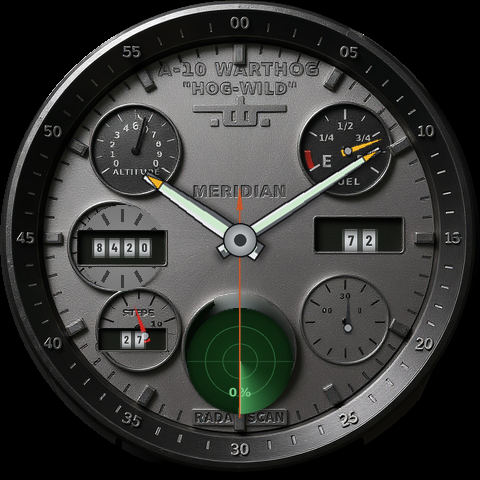
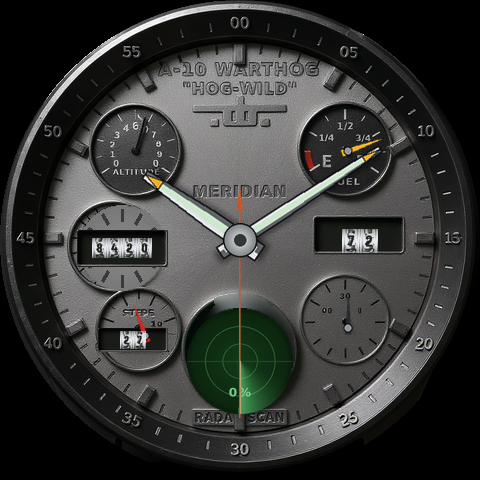
HOG-WILD 1.3.2: forge the lock wheels in Blender — real metal, really lit
Owner call on 1.3.1: "use blender to really make them metal and real."
tools/forge_wheel_font.py models one combination-lock wheel — a drum with
all ten numerals boolean-engraved around its circumference and ink-filled
via a second material on every face below the turned surface, flanked by
knurled rims built from 72 real ridge blocks each — then detents it 36 deg
per digit and renders head-on with orthographic Cycles. Drum falloff,
knurl serration shadows and the neighbour numerals curving away at the
slot edges are all physical now, not painted gradients.

A pure render is illegible at the 16px the face ships at, so the finish
is hybrid: the render supplies the metal; install re-inks the numeral in
exact registration (same typeface, same em maths as the cutter, which was
left unfattened so its recess reads as a shadow ring around the crisp
core) and adds the lit lower lip. Aperture-shade vignette keeps the
neighbours down to the sliver a real lock shows.

Traps found and documented in the tool:
- bmesh reads LOCAL coordinates; the drum's 90-degree lay-down is an
  object transform, so the ink criterion must treat Z as the spindle
  (first attempt painted the end caps and an equator band).
- text outline offset makes the glyph curves self-intersect; the exact
  boolean then flips inside out and skins the whole band, leaving white
  digits on black — stroke weight belongs to the stamp, not the cutter.
[…]

Changed region(s): [[0.1875, 0.5, 0.3438, 0.5625], [0.6875, 0.4688, 0.8125, 0.5312], [0.25, 0.6875, 0.3125, 0.75]]

diff --git a/tools/forge_wheel_font.py b/tools/forge_wheel_font.py
@@ -1,0 +1,351 @@
+#!/usr/bin/env python3
+"""Forge the HOG-WILD `wheel` font in Blender: real metal, really lit.
+
+make_wheel_font.py PAINTS a lock wheel; this MACHINES one. A single drum is
+modelled with all ten numerals engraved around its circumference (boolean
+difference, so the digit is a true recess whose walls catch light) and two
+knurled rims built from real ridge geometry standing proud of the band —
+then the drum is detented 36° at a time and rendered head-on with Cycles.
+Because every digit lives on the same physical drum, the neighbouring
+numerals curve away at the slot edges in correct perspective, the engraving
+self-shadows, and the lathe-turned brushing crosses highlight like metal
+instead of like a gradient.
+
+The BitmapFont alpha-mask constraint is unchanged: the pipeline discards
+glyph colour, so the render ships as relief — luminance becomes alpha, the
+declared colour becomes the steel, and the engraved cut (which Cycles
+renders dark) goes transparent for the aperture's darkness to fill.
+
+One file, two roles: run as plain Python it drives everything (invokes
+Blender headless on itself, then post-processes); run inside Blender (-P)
+it builds and renders.
+
+Determinism: fixed seed, fixed sample count, denoiser on. Cycles output is
+stable for a given Blender build (4.5 LTS here) but not warranted across
+versions — regenerate and eyeball rather than diff.
+
+Usage:
+    python3 tools/forge_wheel_font.py            # report
+    python3 tools/forge_wheel_font.py --write    # forge + install glyphs
+"""
+
+from __future__ import annotations
+
+import math
+import subprocess
+import sys
+from pathlib import Path
+
+REPO = Path(__file__).resolve().parent.parent
+DRAWABLE = REPO / "watchfaces/hogwild/app/src/main/res/drawable"
+FONT_TTF = Path.home() / ".local/share/fonts/BarlowCondensed-Bold.ttf"
+RENDER_DIR = REPO / "build/wheel_forge"
+CELL_W, CELL_H = 34, 46
+RES_W, RES_H = 340, 460          # 10x, downscaled at install
+
+
+# ======================================================================
+# BLENDER SIDE
+# ======================================================================
+def blender_main() -> None:
+    import bpy
+
+    # ---- clean scene ----
+    bpy.ops.wm.read_factory_settings(use_empty=True)
+    scene = bpy.context.scene
+
+    # ---- the drum: axis along X, digit band radius 1.0 ----
+    bpy.ops.mesh.primitive_cylinder_add(
+        vertices=256, radius=1.0, depth=0.66,
+        rotation=(0, math.pi / 2, 0))
+    drum = bpy.context.object
+    drum.name = "drum"
+    bpy.ops.object.shade_smooth()
+
+    # ---- knurled rims: ridge boxes arrayed around each rim ring ----
+    rims = []
+    for side in (-1, 1):
+        x0 = side * (0.33 + 0.085)
+        bpy.ops.mesh.primitive_cylinder_add(
+            vertices=256, radius=1.04, depth=0.17,
+            rotation=(0, math.pi / 2, 0), location=(x0, 0, 0))
+        rim = bpy.context.object
+        rim.name = f"rim{side}"
+        bpy.ops.object.shade_smooth()
+        rims.append(rim)
+        for i in range(72):                      # the knurl, as geometry
+            a = 2 * math.pi * i / 72
+            bpy.ops.mesh.primitive_cube_add(size=1, location=(
+                x0, -math.sin(a) * 1.045, math.cos(a) * 1.045))
+            ridge = bpy.context.object
+            ridge.scale = (0.075, 0.012, 0.022)
+            ridge.rotation_euler = (a, 0, 0)
+            rims.append(ridge)
+
+    # ---- numerals: engraved clean through the band surface ----
+    cutters = []
+    font = bpy.data.fonts.load(str(FONT_TTF))
+    for i, ch in enumerate("0123456789"):
+        a = 2 * math.pi * i / 10
+        bpy.ops.object.text_add()
+        txt = bpy.context.object
+        txt.data.body = ch
+        txt.data.font = font
+        txt.data.size = 0.84
+        # NO outline offset: fattening the text curves makes them
+        # self-intersect, and the exact boolean then flips inside out and
+        # skins the whole band instead of cutting ten numerals. Stroke
+        # weight for the shipping size comes from the ink stamp, not the
+        # cutter.
+        txt.data.extrude = 0.025      # shallow: engraved-and-inked, not milled
+        txt.data.align_x = "CENTER"
+        txt.data.align_y = "CENTER"
+        bpy.ops.object.convert(target="MESH")
+        # face outward at angle phi: text starts facing +Z, upright in
+        # XY; phi=pi/2 puts digit 0 on the -Y face, dead in front of the
+        # camera, and location must use the SAME angle as the facing
+        phi = a + math.pi / 2
+        txt.rotation_euler = (phi, 0, 0)
+        txt.location = (0, -math.sin(phi) * 1.0, math.cos(phi) * 1.0)
+        cutters.append(txt)
+
+    for c in cutters[1:]:
+        c.select_set(True)
+    bpy.context.view_layer.objects.active = cutters[0]
+    cutters[0].select_set(True)
+    bpy.ops.object.join()
+    cutter = bpy.context.object
+
+    mod = drum.modifiers.new("engrave", "BOOLEAN")
+    mod.operation = "DIFFERENCE"
+    mod.object = cutter
+    bpy.context.view_layer.objects.active = drum
+    bpy.ops.object.modifier_apply(modifier="engrave")
+    cutter.hide_render = True
+    cutter.hide_viewport = True
+
+    # ink the engraving: every face of the band that sits below the turned
+    # surface (recess floors and walls) takes the second material slot,
+    # the way a real counter drum is engraved and then paint-filled —
+    # otherwise the flat recess floor faces the camera square-on, catches
+    # the key light, and the digit reads embossed instead of cut
+    # NB mesh data is LOCAL: the 90-degree turn that lays the drum on its
+    # side is an object transform, so in these coordinates the spindle is
+    # the Z axis — axis distance is sqrt(x^2+y^2) and |z| walks the band,
+    # with the end caps excluded by the z bound
+    import bmesh
+    bm = bmesh.new()
+    bm.from_mesh(drum.data)
+    for f in bm.faces:
+        c = f.calc_center_median()
+        if (c.x ** 2 + c.y ** 2) ** 0.5 < 0.9925 and abs(c.z) < 0.329:
+            f.material_index = 1
+    bm.to_mesh(drum.data)
+    bm.free()
+
+    # ---- materials: lathe-brushed steel band, rougher rims ----
+    def steel(name, rough, lathe=False):
+        m = bpy.data.materials.new(name)
+        m.use_nodes = True
+        bsdf = m.node_tree.nodes["Principled BSDF"]
+        bsdf.inputs["Base Color"].default_value = (0.74, 0.75, 0.77, 1)
+        bsdf.inputs["Metallic"].default_value = 1.0
+        bsdf.inputs["Roughness"].default_value = rough
+        bsdf.inputs["Specular IOR Level"].default_value = 0.4
+        if lathe:
+            nt = m.node_tree
+            tex = nt.nodes.new("ShaderNodeTexNoise")
+            tex.inputs["Scale"].default_value = 6.0
+            tex.noise_dimensions = "3D"
+            mapping = nt.nodes.new("ShaderNodeMapping")
+            mapping.inputs["Scale"].default_value = (60.0, 1.0, 1.0)
+            coord = nt.nodes.new("ShaderNodeTexCoord")
+            bump = nt.nodes.new("ShaderNodeBump")
+            bump.inputs["Strength"].default_value = 0.015
+            nt.links.new(coord.outputs["Object"], mapping.inputs["Vector"])
+            nt.links.new(mapping.outputs["Vector"], tex.inputs["Vector"])
+            nt.links.new(tex.outputs["Fac"], bump.inputs["Height"])
+            nt.links.new(bump.outputs["Normal"], bsdf.inputs["Normal"])
+        return m
+
+    band_mat = steel("band", 0.30, lathe=True)
+    rim_mat = steel("rims", 0.45)
+    ink = bpy.data.materials.new("ink")
+    ink.use_nodes = True
+    ink_bsdf = ink.node_tree.nodes["Principled BSDF"]
+    import os
+    _dbg = os.environ.get("FORGE_DEBUG")
+    ink_bsdf.inputs["Base Color"].default_value = (
+        (1.0, 0.0, 0.0, 1) if _dbg else (0.01, 0.01, 0.011, 1))
+    ink_bsdf.inputs["Metallic"].default_value = 0.0
+    ink_bsdf.inputs["Roughness"].default_value = 0.9
+    drum.data.materials.append(band_mat)
+    drum.data.materials.append(ink)
+    for r in rims:
+        r.data.materials.append(rim_mat)
+
+    # ---- parent everything to a spindle for detenting ----
+    bpy.ops.object.empty_add(location=(0, 0, 0))
+    spindle = bpy.context.object
+    spindle.name = "spindle"
+    for ob in [drum] + rims:
+        ob.parent = spindle
+
+    # ---- camera: orthographic, dead-on ----
+    bpy.ops.object.camera_add(location=(0, -4, 0),
+                              rotation=(math.pi / 2, 0, 0))
+    cam = bpy.context.object
+    cam.data.type = "ORTHO"
+    cam.data.sensor_fit = "VERTICAL"
+    cam.data.ortho_scale = 1.28
+    scene.camera = cam
+
+    # ---- studio: key, fill, and a hot equator strip ----
+    def area(loc, rot, size, power):
+        bpy.ops.object.light_add(type="AREA", location=loc, rotation=rot)
+        li = bpy.context.object
+        li.data.size = size
+        li.data.energy = power
+        return li
+
+    area((1.5, -3.0, 3.0), (math.radians(50), 0, math.radians(20)), 4, 115)
+    area((-2.0, -3.0, -1.0), (math.radians(105), 0, math.radians(-30)), 3, 45)
+    area((0, -2.6, 0.55), (math.radians(78), 0, 0), 1.2, 55)
+    world = bpy.data.worlds.new("w")
+    scene.world = world
+    world.use_nodes = True
+    world.node_tree.nodes["Background"].inputs[
+        "Strength"].default_value = 0.03
+
+    # ---- Cycles ----
+    scene.render.engine = "CYCLES"
+    scene.cycles.samples = 96
+    scene.cycles.seed = 7
+    scene.cycles.use_denoising = True
+    prefs = bpy.context.preferences.addons.get("cycles")
+    if prefs:
+        cp = prefs.preferences
+        for backend in ("OPTIX", "CUDA"):
+            try:
+                cp.compute_device_type = backend
+                cp.get_devices()
+                for d in cp.devices:
+                    d.use = True
+                scene.cycles.device = "GPU"
+                break
+            except Exception:
+                continue
+    scene.render.resolution_x = RES_W
+    scene.render.resolution_y = RES_H
+    scene.render.image_settings.file_format = "PNG"
+    scene.render.image_settings.color_mode = "RGB"
+    scene.view_settings.view_transform = "Filmic"
+
+    RENDER_DIR.mkdir(parents=True, exist_ok=True)
+    import os
+    count = 1 if os.environ.get("FORGE_DEBUG") else 10
+    for i in range(count):
+        spindle.rotation_euler = (-2 * math.pi * i / 10, 0, 0)
+        scene.render.filepath = str(RENDER_DIR / f"digit_{i}.png")
+        bpy.ops.render.render(write_still=True)
+        print(f"forged digit {i}")
+
+
+# ======================================================================
+# DRIVER SIDE
+# ======================================================================
+def digit_mask(ch: str) -> "Image":
+    """The numeral, drawn at 4x in exact registration with the render.
+
+    Blender centres the glyph bbox on the drum's front meridian; this
+    centres the same glyph's bbox on the cell. The em size falls out of the
+    camera maths — text_size * (CELL_H / ortho_scale) px per em — so the
+    stamp lands on the engraving without measured constants. The engraving
+    was cut with a fattened outline (+0.012 em per side), deliberately: the
+    render's dark recess pokes out around this crisp core as a shadow ring,
+    which is what sells the depth after the ink goes in.
+    """
+    from PIL import Image, ImageDraw, ImageFont
+    ss = 4
+    em = round(ss * 0.84 * (CELL_H / 1.28))
+    fnt = ImageFont.truetype(str(FONT_TTF), em)
+    m = Image.new("L", (CELL_W * ss, CELL_H * ss), 0)
+    d = ImageDraw.Draw(m)
+    bbox = d.textbbox((0, 0), ch, font=fnt)
+    d.text((CELL_W * ss / 2 - (bbox[0] + bbox[2]) / 2,
+            CELL_H * ss / 2 - (bbox[1] + bbox[3]) / 2), ch,
+           font=fnt, fill=255)
+    return m.resize((CELL_W, CELL_H), Image.LANCZOS)
+
+
+def install_glyphs(write: bool) -> None:
+    """Hybrid finish: Blender makes the metal, the stamp makes it legible.
+
+    A pure render dies at 16px — denoise softness, neighbour slivers and
+    specular noise eat the numeral. So the render supplies everything that
+    should be physical (knurl, drum falloff, engraving shadow) and the ink
+    is re-applied here at full contrast, in registration, with a lit lower
+    lip — engraved-and-paint-filled, finished for the size it ships at.
+    """
+    import math as _m
+    from PIL import Image, ImageChops, ImageFilter
+    for i in range(10):
+        src = RENDER_DIR / f"digit_{i}.png"
+        img = Image.open(src).convert("L").resize(
+            (CELL_W, CELL_H), Image.LANCZOS)
+        img = img.filter(ImageFilter.UnsharpMask(radius=2, percent=110,
+                                                 threshold=2))
+        lum = img.point(lambda v: min(255, int((v / 255) ** 0.9 * 430)))
+        # ink the numeral: multiply the steel down to paint-black
+        mask = digit_mask("0123456789"[i])
+        ink = mask.point(lambda v: 255 - (v * 235) // 255)
+        lum = ImageChops.multiply(lum, ink)
+        # lit lower lip under the cut
+        lip = ImageChops.subtract(
+            mask.transform(mask.size, Image.AFFINE, (1, 0, 0, 0, 1, -1)),
+            mask)
+        lum = ImageChops.add(lum, lip.point(lambda v: (v * 70) // 255))
+        # aperture shading toward the slot edges: neighbours stay slivers
+        px = lum.load()
+        for y in range(CELL_H):
+            t = abs(y - (CELL_H - 1) / 2) / (CELL_H / 2)
+            k = 0.30 + 0.70 * max(0.0, _m.cos(min(1.0, t) * 1.15))
+            for x in range(CELL_W):
+                px[x, y] = int(px[x, y] * k)
+        out = Image.new("RGBA", (CELL_W, CELL_H), (255, 255, 255, 0))
+        out.putalpha(lum)
+        dest = DRAWABLE / f"w_{i}.png"
+        if write:
+            out.save(dest)
+            print(f"installed {dest.relative_to(REPO)}")
+        else:
+            print(f"would install {dest.relative_to(REPO)}")
+
+
+def driver_main() -> int:
+    write = "--write" in sys.argv
+    blender = subprocess.run(["blender", "-b", "-P", __file__],
+                             capture_output=True, text=True)
+    if blender.returncode != 0:
+        sys.stderr.write(blender.stdout[-2000:] + blender.stderr[-2000:])
+        return 1
+    missing = [i for i in range(10)
+               if not (RENDER_DIR / f"digit_{i}.png").exists()]
+    if missing:
+        sys.stderr.write(f"blender produced no renders for {missing}\n")
+        sys.stderr.write(blender.stdout[-2000:])
+        return 1
+    install_glyphs(write)
+    return 0
+
+
+try:
+    import bpy  # noqa: F401  — present only under `blender -P`
+    IN_BLENDER = True
+except ImportError:
+    IN_BLENDER = False
+
+if IN_BLENDER:
+    blender_main()
+elif __name__ == "__main__":
+    sys.exit(driver_main())

diff --git a/watchfaces/hogwild/README.md b/watchfaces/hogwild/README.md
@@ -91,6 +91,25 @@ rebinds the data):
   repeat the time in digits, which the hands already state; it now reads the
   pulse. The RPM needle still shivers at the same rate.
 
+## 1.3.2 — the wheels go through the forge
+
+1.3.1 painted its wheels; 1.3.2 renders them. `tools/forge_wheel_font.py`
+models one combination-lock wheel in Blender — a drum with all ten numerals
+boolean-engraved around its circumference, paint-filled via a second
+material on the recess faces, and two knurled rims built from seventy-two
+real ridge blocks each — then detents it 36° per digit and renders it
+head-on with Cycles. Every shading cue on the shipped glyphs is physical:
+the drum's falloff, the knurl's serration shadows, the neighbouring
+numerals curving away at the slot edges.
+
+A pure render dies at the 16px the face actually ships, so the finish is
+hybrid: the render supplies the metal, and the numeral is re-inked in
+registration at install time (same typeface, same em maths as the cutter)
+with a lit lower lip. Two traps documented in the tool: mesh data is LOCAL
+(the drum's 90° object rotation does not move it), and outline-offset
+fattening makes text curves self-intersect, which flips the exact boolean
+inside out and skins the band.
+
 ## 1.3.1 — wheels, not phosphor
 
 The 1.3.0 readouts arrived as LCD phosphor: a screen, on a dial whose
